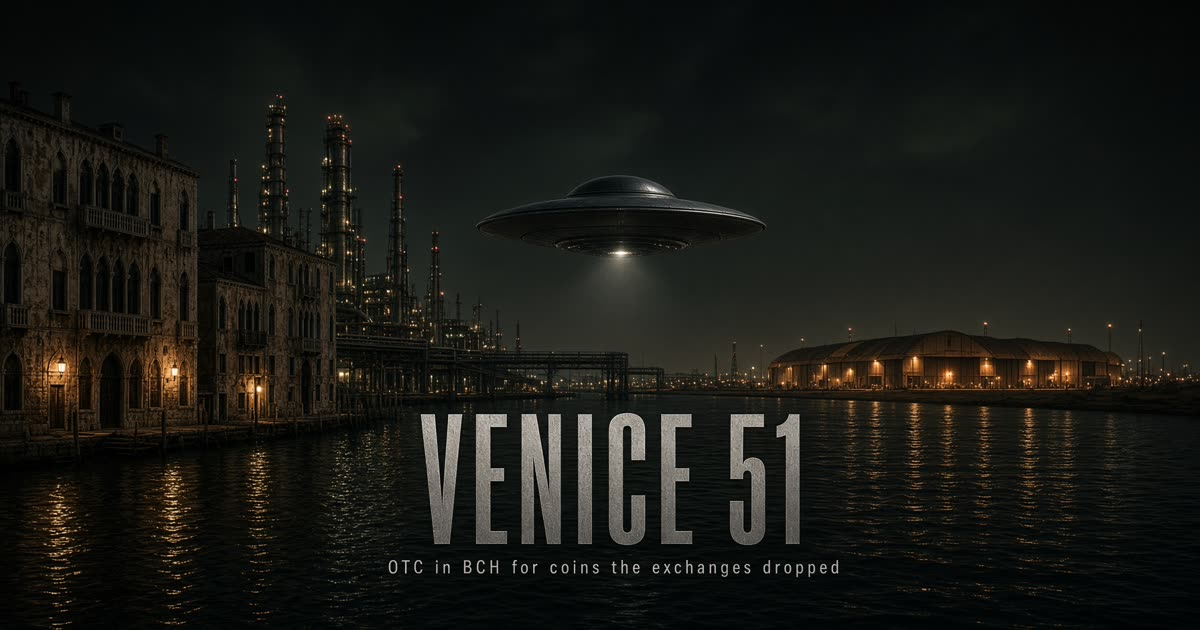
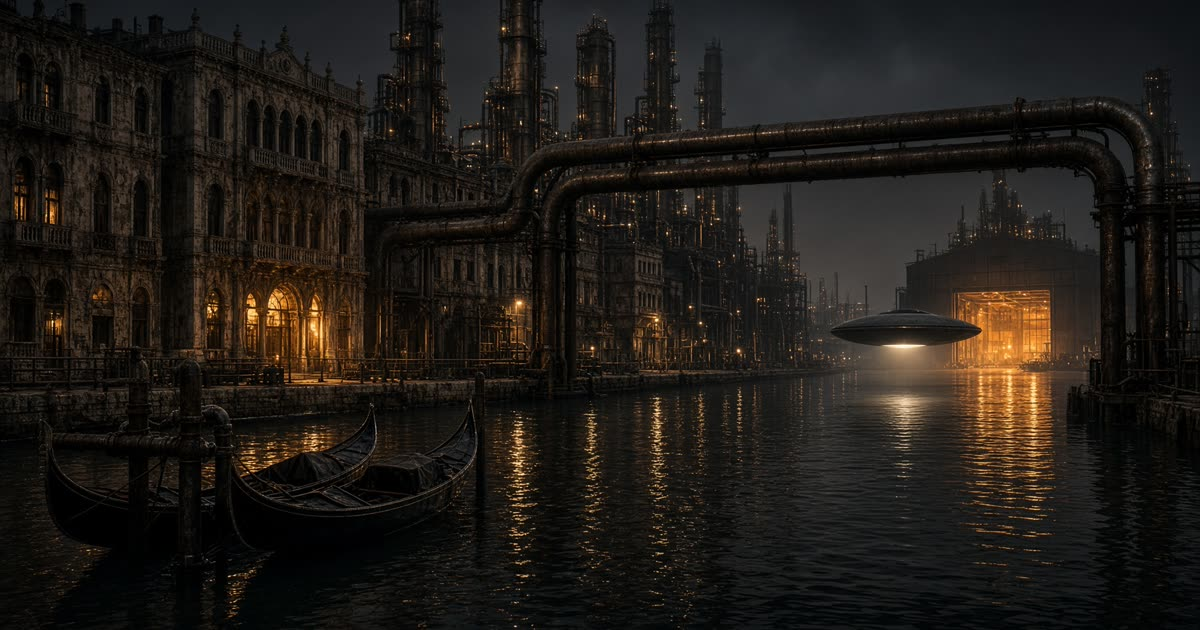
BCH OTC desk swap line — liquidity where it doesn't exist

diff --git a/src/routes/index.tsx b/src/routes/index.tsx
@@ -26,6 +26,9 @@ function Home() {
         <h1 className="mt-3 max-w-4xl text-3xl font-medium tracking-tight sm:text-5xl">
           The digital commodity midstream pipeline for upstream miners to sell to downstream consumers.
         </h1>
+        <p className="mt-4 max-w-2xl font-mono text-sm tracking-wide text-flare">
+          BCH OTC desk swap line. Providing liquidity where it doesn’t exist.
+        </p>
         <p className="mt-4 max-w-2xl text-base text-muted">
           Price in BCH. Books look like an exchange — bids left, asks right.
           TCTC (Trillion Carbon) is required to be on the floor — and it is

diff --git a/src/routes/guide.tsx b/src/routes/guide.tsx
@@ -14,7 +14,8 @@ function Guide() {
           <section>
             <h2 className="mb-2 text-foreground">What this is</h2>
             <p>
-              Venice 51 is a public floor for leftover PoW, quoted Coin / BCH.
+              Venice 51 is a BCH OTC desk swap line — providing liquidity
+              where it doesn’t exist. Quoted Coin / BCH.
               You join {DISCORD_NAME} with the invite on this site. The desk
               talks to you and verifies you are real. The website is the books.
               There is no escrow. Honesty is paramount. Volunteers who want to

diff --git a/src/routes/__root.tsx b/src/routes/__root.tsx
@@ -15,7 +15,7 @@ export const Route = createRootRoute({
       { title: APP_NAME },
       {
         name: "description",
-        content: "Venice 51 — OTC notice board quoted in BCH for proof-of-work coins that lost their exchange.",
+        content: "Venice 51 — BCH OTC desk swap line. Providing liquidity where it doesn't exist.",
       },
       { name: "theme-color", content: "#0c0c0d" },
     ],

diff --git a/README.md b/README.md
@@ -1,6 +1,6 @@
 # Venice 51
 
-Public Coin / BCH board for leftover PoW. Referral chain, watch-only funded wallets, Discord floor. No escrow. No custody.
+BCH OTC desk swap line. Providing liquidity where it doesn't exist. Watch-only funded wallets, Discord floor. No escrow. No custody.
 
 Live: after Render connects this repo, the service URL is the site.
 
